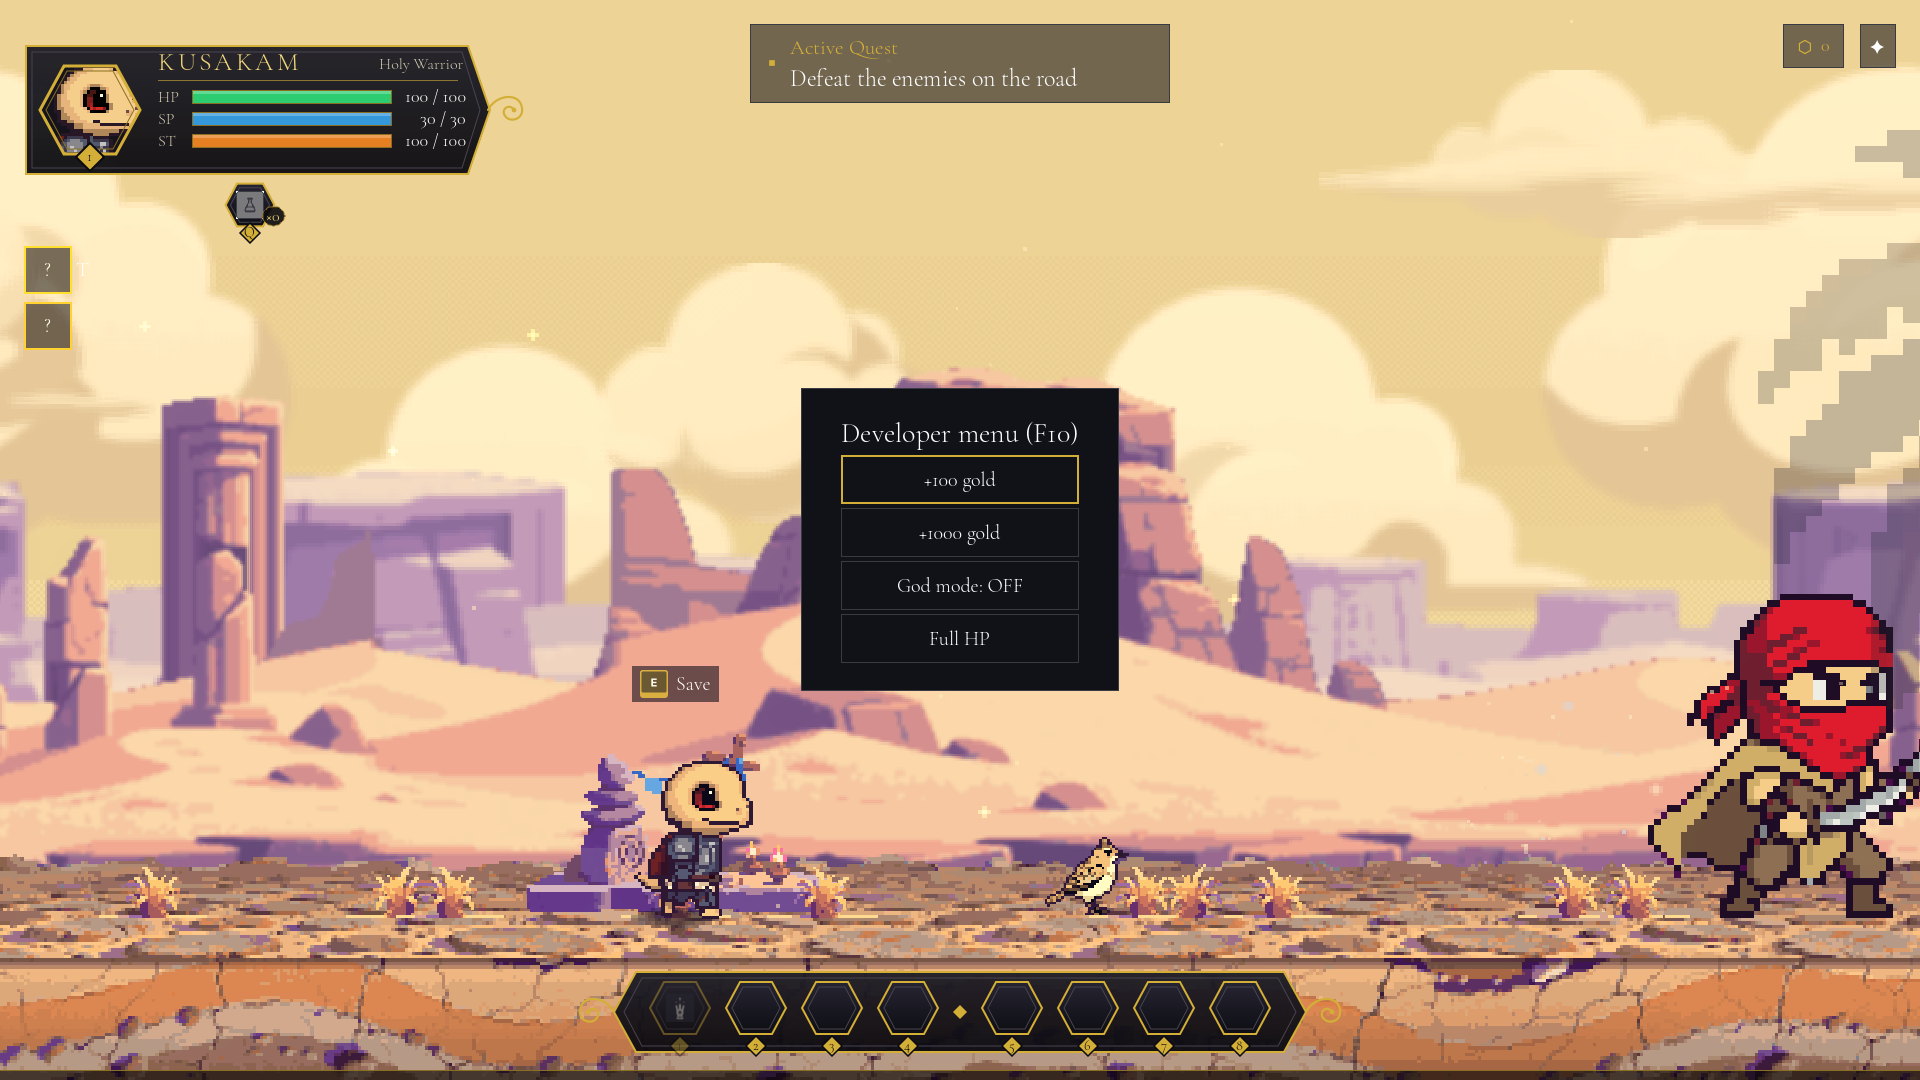
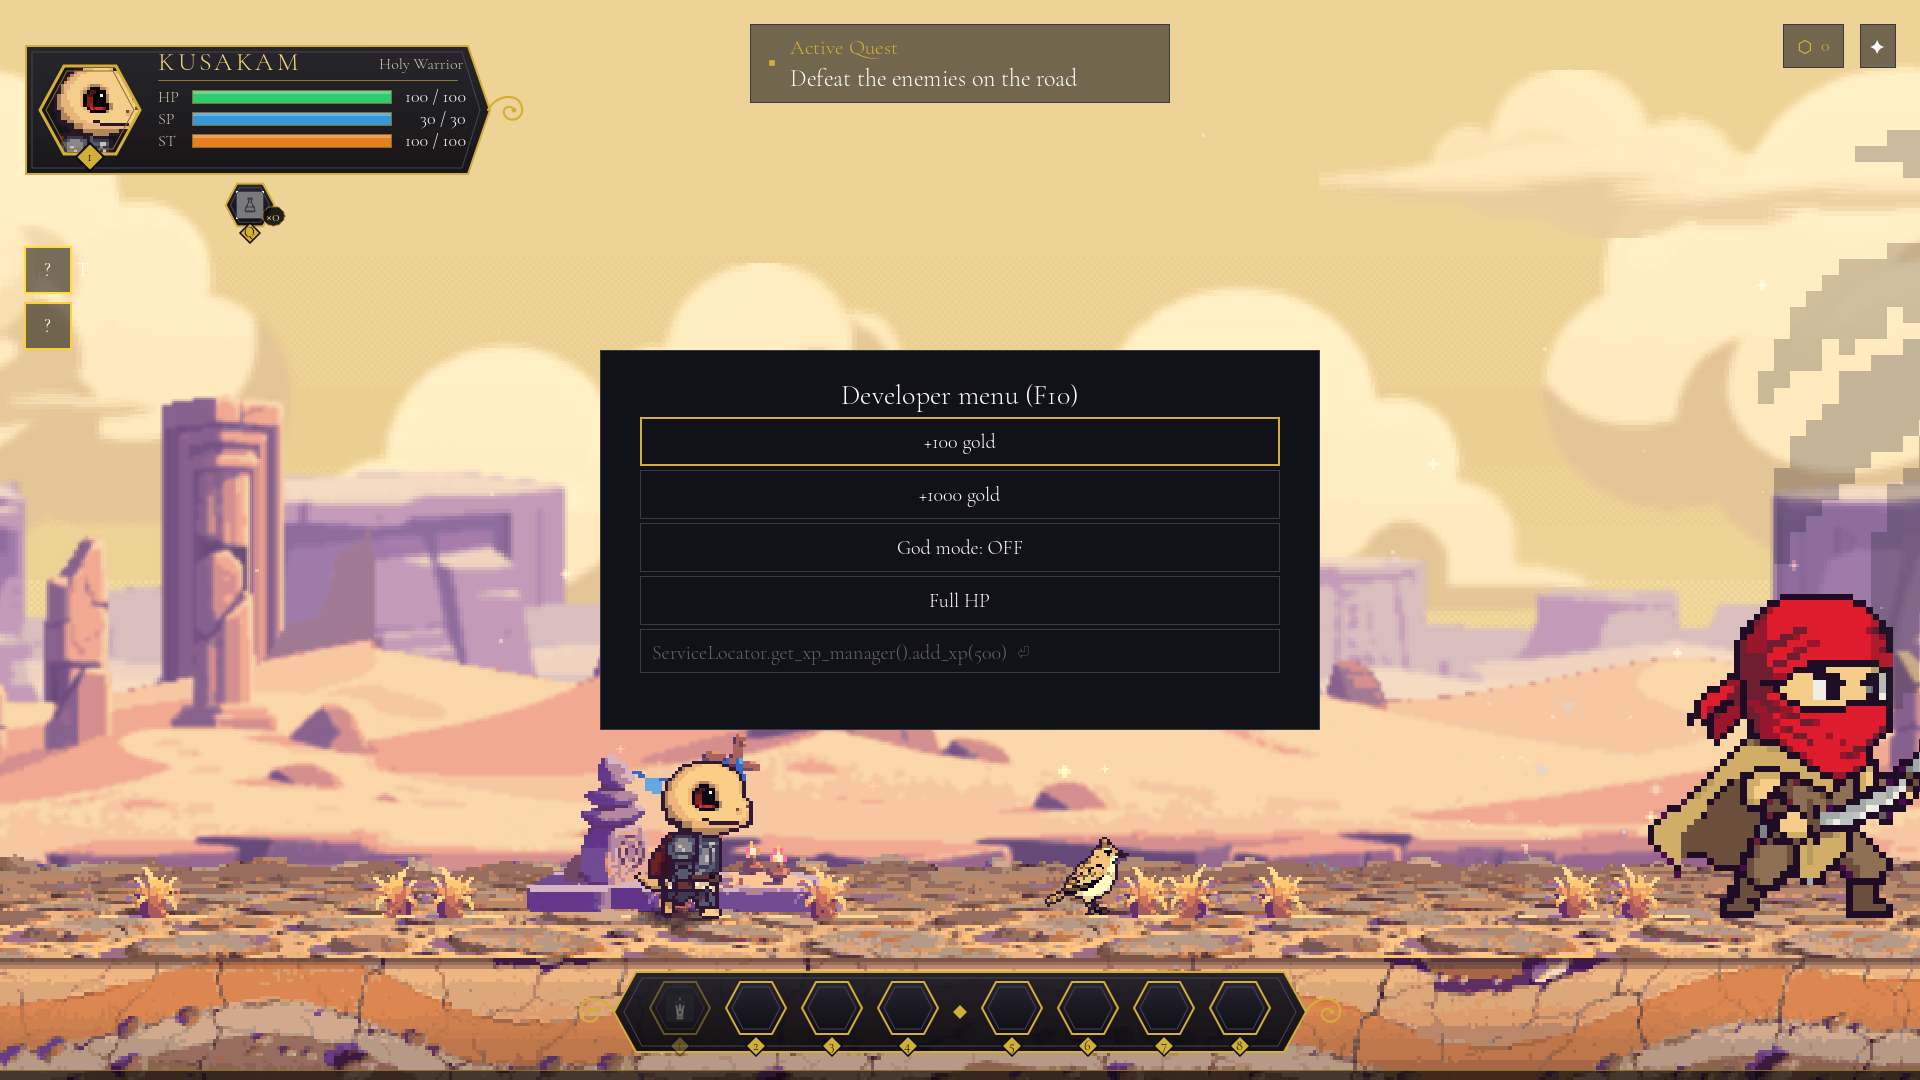
Dev menu: a console line runs any GDScript expression (autoloads by name, player, game)
Claude-Session: https://claude.ai/code/session_01Pra1eqG3HRYK3FEoBcvCSk

Changed region(s): [[0.3125, 0.3056, 0.6875, 0.7028], [0.1875, 0.7944, 0.2188, 0.8556]]

diff --git a/design/dev_menu_plan.md b/design/dev_menu_plan.md
@@ -5,7 +5,7 @@ status: planned
 
 # Режим розробника (dev menu) — plan
 
-**Slice 1 built** 2026-10-29 (D943): F10 menu, gold, god mode, full HP. Slices 2–3 open. Sapega в плейтесті: «треба додати меню режиму розробника, де я можу наклацати
+**Slice 1 built** 2026-10-29 (D943): F10 menu, gold, god mode, full HP, and a console line that runs any GDScript expression (`Expression`; autoloads by name + `player`, `game`; Sapega: «уніфікувати команди типу ServiceLocator.get_xp_manager().add_xp(500)»). Slices 2–3 open. Sapega в плейтесті: «треба додати меню режиму розробника, де я можу наклацати
 собі HP, урон, зробити безсмертним, пригати по локаціях і золото нараховувати». Figma: no design exists (службове
 меню, не частина гри для гравця; вигляд — спільна тема `GameUITheme`, без власних кольорів).
 
